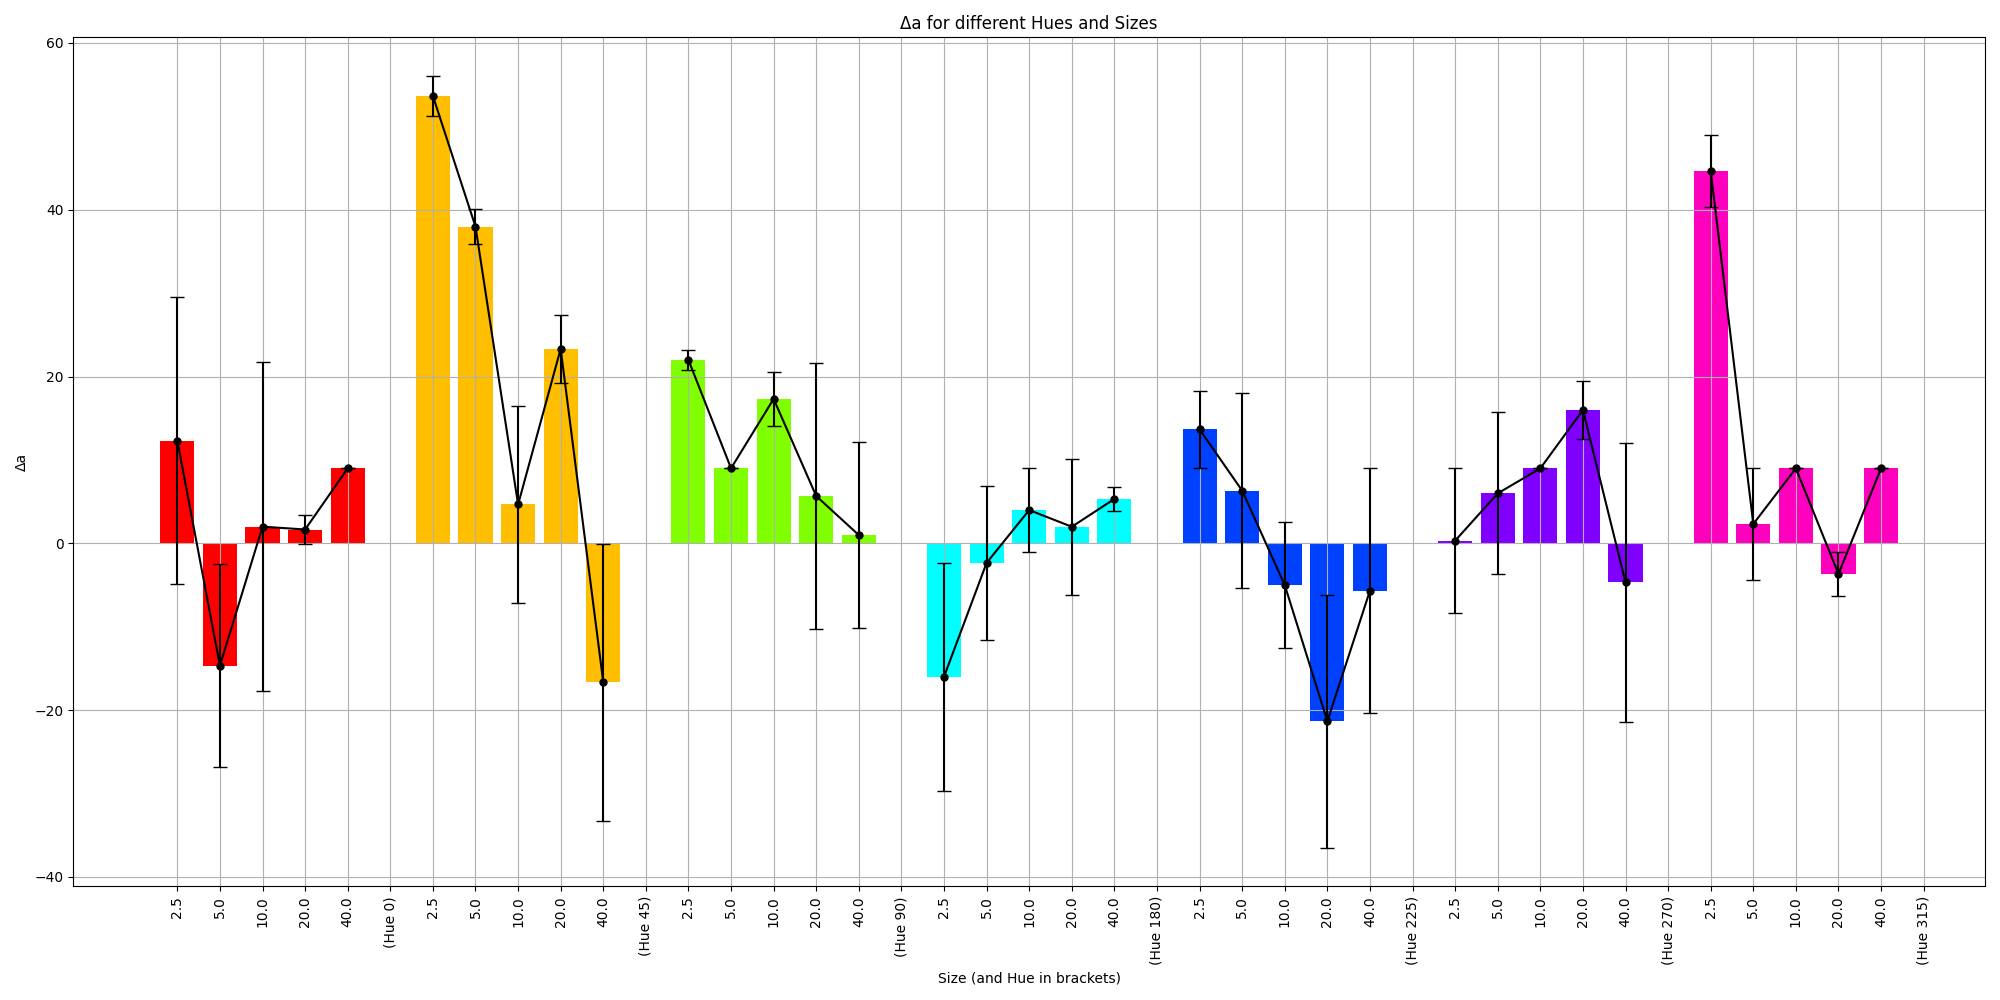
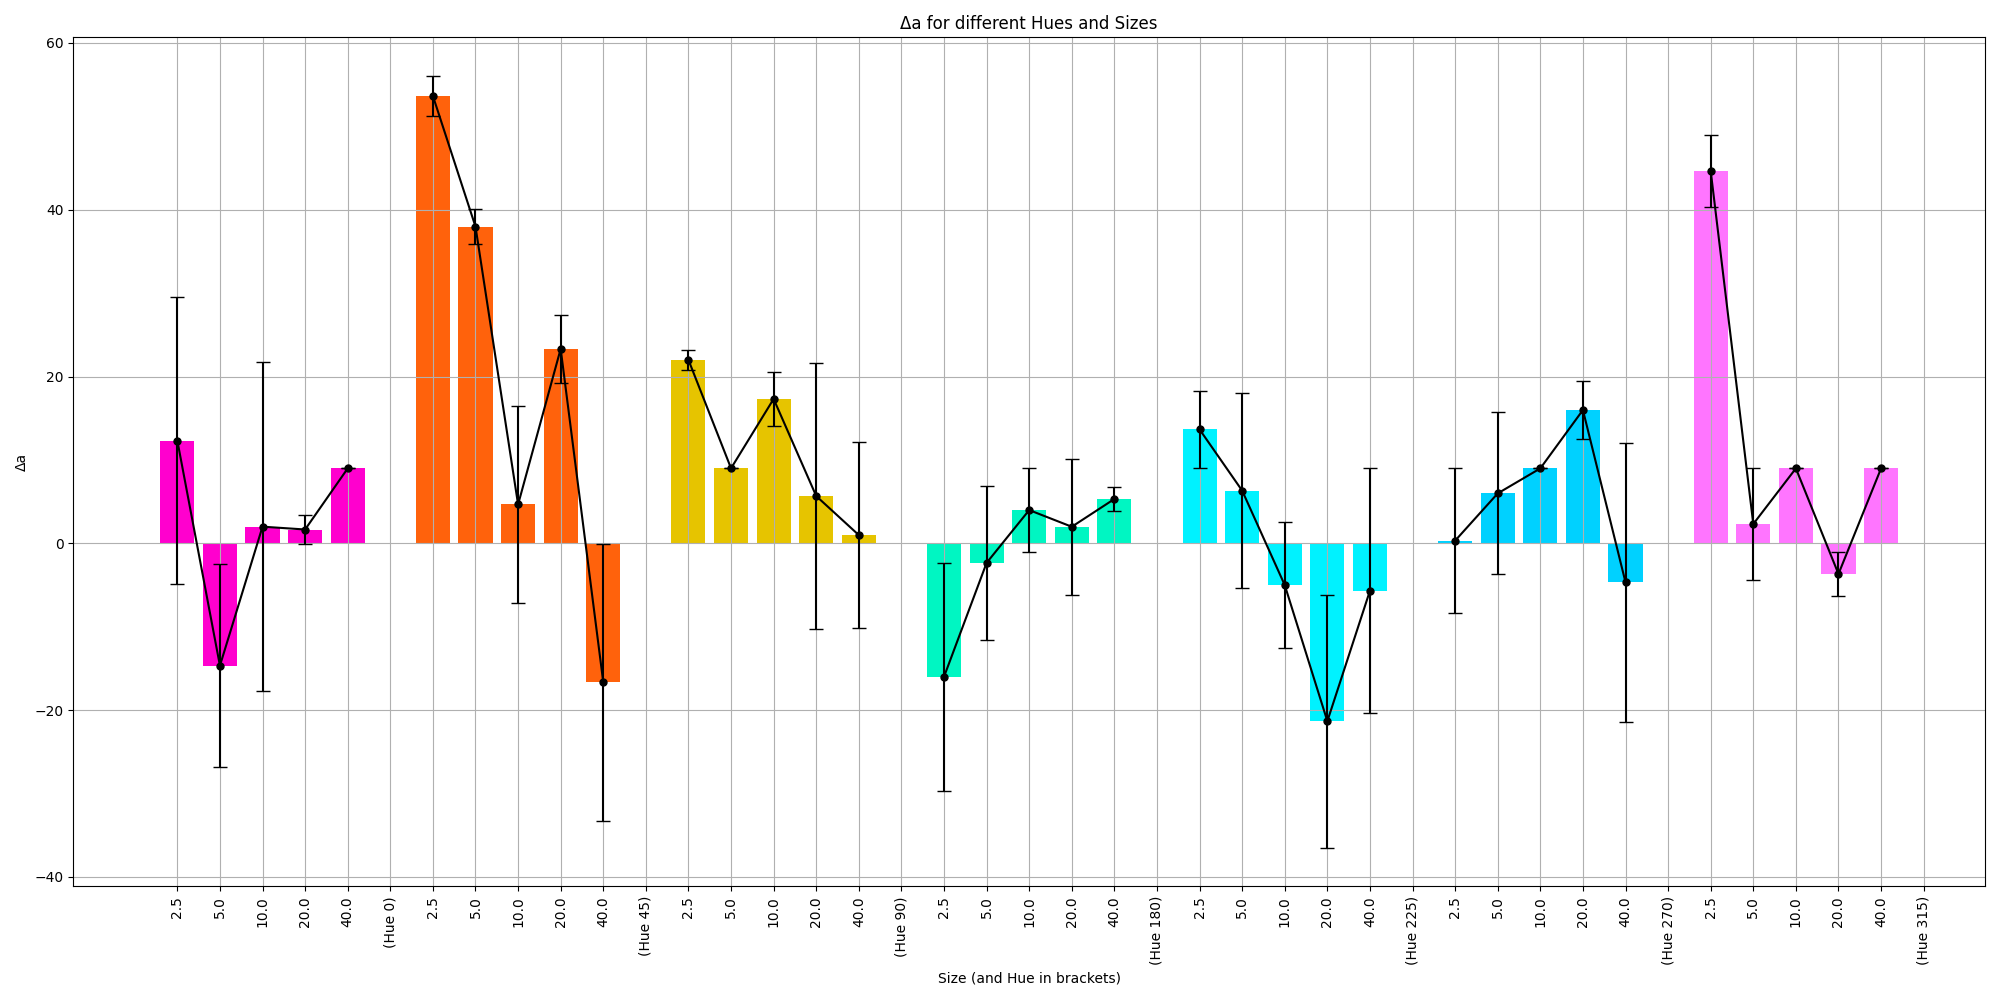
fix

Changed region(s): [[0.062, 0.093, 0.434, 0.682], [0.713, 0.155, 0.961, 0.589], [0.465, 0.434, 0.713, 0.744]]

diff --git a/statistics/test/delta_e_test.py b/statistics/test/delta_e_test.py
@@ -2,10 +2,14 @@ import os
 import numpy as np
 import pandas as pd
 import matplotlib.pyplot as plt
-import statsmodels.api as sm
+import colorsys
 
 # 从CSV文件中读取数据
-df = pd.read_csv('../updated_averaged_data_012.csv')
+df = pd.read_csv('../../updated_averaged_data_012.csv')
+
+# 确保数据范围正确
+print("Data range check:")
+print(df[['L_inducer', 'a_inducer', 'b_inducer', 'L_label_mean', 'a_label_mean', 'b_label_mean']].describe())
 
 # 提取数据
 test_color = np.array([80, -90, 90])
@@ -20,6 +24,12 @@ print(df.head())
 # 提取独特的sizes和hues
 unique_sizes = np.sort(df['size'].unique())
 unique_hues = np.sort(df['hue_inducer'].unique())
+
+
+# 将hue_inducer转换为RGB颜色
+def hue_to_rgb(hue):
+    return colorsys.hsv_to_rgb(hue / 360.0, 1.0, 1.0)
+
 
 # 计算ΔL, Δa, Δb
 df['ΔL'] = df['L_label_mean'] - test_color[0]
@@ -59,11 +69,10 @@ def plot_labels(label_column, sem_column, y_label, file_name, test_value=None):
         sorted_labels = sorted_df[label_column].values
         sorted_sems = sorted_df[sem_column].values if sem_column in sorted_df.columns else np.zeros_like(sorted_labels)
         sorted_sizes = sorted_df['size'].values
-        sorted_colors = bar_colors[mask]
 
         positions = []
         for i, size in enumerate(sorted_sizes):
-            color = sorted_colors[i]
+            color = hue_to_rgb(hue)
             position = len(x_ticks) + 1
             x_ticks.append(f'{size}')
             x_positions.append(position)
@@ -103,11 +112,10 @@ def plot_labels_by_size(label_column, sem_column, y_label, file_name, test_value
         sorted_labels = sorted_df[label_column].values
         sorted_sems = sorted_df[sem_column].values if sem_column in sorted_df.columns else np.zeros_like(sorted_labels)
         sorted_hues = sorted_df['hue_inducer'].values
-        sorted_colors = sorted_df[['R_inducer', 'G_inducer', 'B_inducer']].values / 255  # 确保颜色排序正确
 
         positions = []
         for i, hue in enumerate(sorted_hues):
-            color = sorted_colors[i]
+            color = hue_to_rgb(hue)
             position = len(x_ticks) + 1
             x_ticks.append(f'{hue}')
             x_positions.append(position)
@@ -153,47 +161,3 @@ plot_labels_by_size('Δb', 'Δb_sem', 'Δb', 'Δb_vs_diff_size.png')
 plot_labels_by_size('ΔE', 'ΔE_sem', 'ΔE', 'ΔE_vs_diff_size.png')
 
 print("Plots generated successfully.")
-
-# # 进行回归分析
-#
-# # 添加常量列用于截距
-# df['intercept'] = 1.0
-#
-# # 定义自变量和因变量
-# independent_vars = ['intercept', 'size', 'L_inducer', 'a_inducer', 'b_inducer']
-# dependent_vars = ['L_label_mean', 'a_label_mean', 'b_label_mean']
-#
-# # 进行回归分析并输出结果
-# for dep_var in dependent_vars:
-#     model = sm.OLS(df[dep_var], df[independent_vars]).fit()
-#     print(f'\n回归分析结果 ({dep_var}):')
-#     print(model.summary())
-#     # 绘制散点图
-#     plt.scatter(df['size'], df[dep_var], label='real')
-#     plt.plot(df['size'], model.predict(), color='red', label='fit')
-#     plt.xlabel('size')
-#     plt.ylabel(dep_var)
-#     plt.title('linear regression')
-#     plt.legend()
-#     plt.show()
-df['intercept'] = 1.0
-# 添加size的平方项
-# df['size_squared'] = df['size'] ** 2
-
-# 定义新的自变量
-# independent_vars_poly = ['intercept', 'size', 'size_squared', 'L_inducer', 'a_inducer', 'b_inducer']
-independent_vars_poly = ['intercept', 'size', 'L_inducer', 'a_inducer', 'b_inducer']
-dependent_vars = ['L_label_mean', 'a_label_mean', 'b_label_mean', 'ΔE']
-# 进行多项式回归
-for dep_var in dependent_vars:
-    model_poly = sm.OLS(df[dep_var], df[independent_vars_poly]).fit()
-    print(f'\n多项式回归结果 ({dep_var}):')
-    print(model_poly.summary())
-    # 绘制散点图和拟合曲线
-    # plt.scatter(df['size'], df[dep_var], label='real')
-    # plt.plot(df['size'], model_poly.predict(), color='red', label='fit (poly)')
-    # plt.xlabel('size')
-    # plt.ylabel(dep_var)
-    # plt.title('polynomial regression')
-    # plt.legend()
-    # plt.show()

diff --git a/a_c_test.py b/a_c_test.py
@@ -1,0 +1,50 @@
+import numpy as np
+import pandas as pd
+import matplotlib.pyplot as plt
+import seaborn as sns
+
+# 从CSV文件中读取数据
+df = pd.read_csv('../updated_averaged_data_012.csv')
+
+# 提取数据
+test_color = np.array([80, -90, 90])
+size = df['size']
+inducer_colors = df[['L_inducer', 'a_inducer', 'b_inducer']].values
+labeled_colors = df[['L_label_mean', 'a_label_mean', 'b_label_mean']].values
+bar_colors = df[['R_inducer', 'G_inducer', 'B_inducer']].values / 255  # 归一化到0-1之间
+hue_inducer = df['hue_inducer'].values
+test_rgb = np.array([0, 235, 0]) / 255
+# 示例数据（假设已有实验数据）
+data = pd.DataFrame({
+    'size': [5, 10, 15, 20, 25],
+    'L_diff': [2, 5, 10, 15, 20],
+    'a_diff': [3, 6, 12, 18, 24],
+    'b_diff': [1, 4, 8, 12, 16]
+})
+
+# 绘制LAB差异与格子大小的关系图
+plt.figure(figsize=(14, 6))
+
+plt.subplot(1, 3, 1)
+sns.lineplot(data=data, x='size', y='L_diff')
+plt.title('L_diff vs Grid Size')
+plt.xlabel('Grid Size')
+plt.ylabel('L_diff')
+
+plt.subplot(1, 3, 2)
+sns.lineplot(data=data, x='size', y='a_diff')
+plt.title('a_diff vs Grid Size')
+plt.xlabel('Grid Size')
+plt.ylabel('a_diff')
+
+plt.subplot(1, 3, 3)
+sns.lineplot(data=data, x='size', y='b_diff')
+plt.title('b_diff vs Grid Size')
+plt.xlabel('Grid Size')
+plt.ylabel('b_diff')
+
+plt.tight_layout()
+plt.show()
+
+# 观察不同格子大小下的LAB值变化
+print(data)

diff --git a/statistics/Linear_Regression.py b/statistics/Linear_Regression.py
@@ -14,7 +14,6 @@ inducer_colors = df[['L_inducer', 'a_inducer', 'b_inducer']].values
 labeled_colors = df[['L_label_mean', 'a_label_mean', 'b_label_mean']].values
 bar_colors = df[['R_inducer', 'G_inducer', 'B_inducer']].values / 255  # 归一化到0-1之间
 
-
 # 提取独特的sizes和hues
 unique_sizes = np.sort(df['size'].unique())
 unique_hues = np.sort(df['hue_inducer'].unique())
@@ -80,6 +79,8 @@ plot_labels('a_label_mean', 'a_label_sem', 'a_label_mean', 'a_label_vs_diff_hue.
 # 绘制 b_label 图表
 plot_labels('b_label_mean', 'b_label_sem', 'b_label_mean', 'b_label_vs_diff_hue.png', test_color[2])
 
+# 进行回归分析
+
 # 添加常量列用于截距
 df['intercept'] = 1.0
 
@@ -92,20 +93,3 @@ for dep_var in dependent_vars:
     model = sm.OLS(df[dep_var], df[independent_vars]).fit()
     print(f'\n回归分析结果 ({dep_var}):')
     print(model.summary())
-
-    # 创建散点图
-    plt.figure(figsize=(8, 6))
-    plt.scatter(df['size'], df[dep_var], color='blue', label='Data')
-
-    # 创建拟合线
-    predicted_values = model.predict(df[independent_vars])
-    plt.plot(df['size'], predicted_values, color='red', label='Fit')
-
-    # 添加图例和标题
-    plt.legend()
-    plt.title(f'Regression Analysis ({dep_var})')
-    plt.xlabel('Size')
-    plt.ylabel(dep_var)
-
-    # 显示图形
-    plt.show()

diff --git a/statistics/vif.py b/statistics/vif.py
@@ -1,0 +1,41 @@
+import pandas as pd
+import statsmodels.api as sm
+from statsmodels.stats.outliers_influence import variance_inflation_factor
+
+# 读取数据
+df = pd.read_csv('../updated_averaged_data_012.csv')
+
+# 提取自变量
+X = df[['size', 'L_inducer', 'a_inducer', 'b_inducer']]
+
+# 添加截距项
+X = sm.add_constant(X)
+
+# 计算VIF
+vif_data = pd.DataFrame()
+vif_data['feature'] = X.columns
+vif_data['VIF'] = [variance_inflation_factor(X.values, i) for i in range(X.shape[1])]
+
+# 输出VIF结果
+print("VIF Results:")
+print(vif_data)
+
+# 分别对L_label_mean, a_label_mean, b_label_mean进行回归分析
+y_L = df['L_label_mean']
+y_a = df['a_label_mean']
+y_b = df['b_label_mean']
+
+# 创建回归模型
+model_L = sm.OLS(y_L, X).fit()
+model_a = sm.OLS(y_a, X).fit()
+model_b = sm.OLS(y_b, X).fit()
+
+# 打印回归结果
+print("\nRegression Results for L_label_mean:")
+print(model_L.summary())
+
+print("\nRegression Results for a_label_mean:")
+print(model_a.summary())
+
+print("\nRegression Results for b_label_mean:")
+print(model_b.summary())
